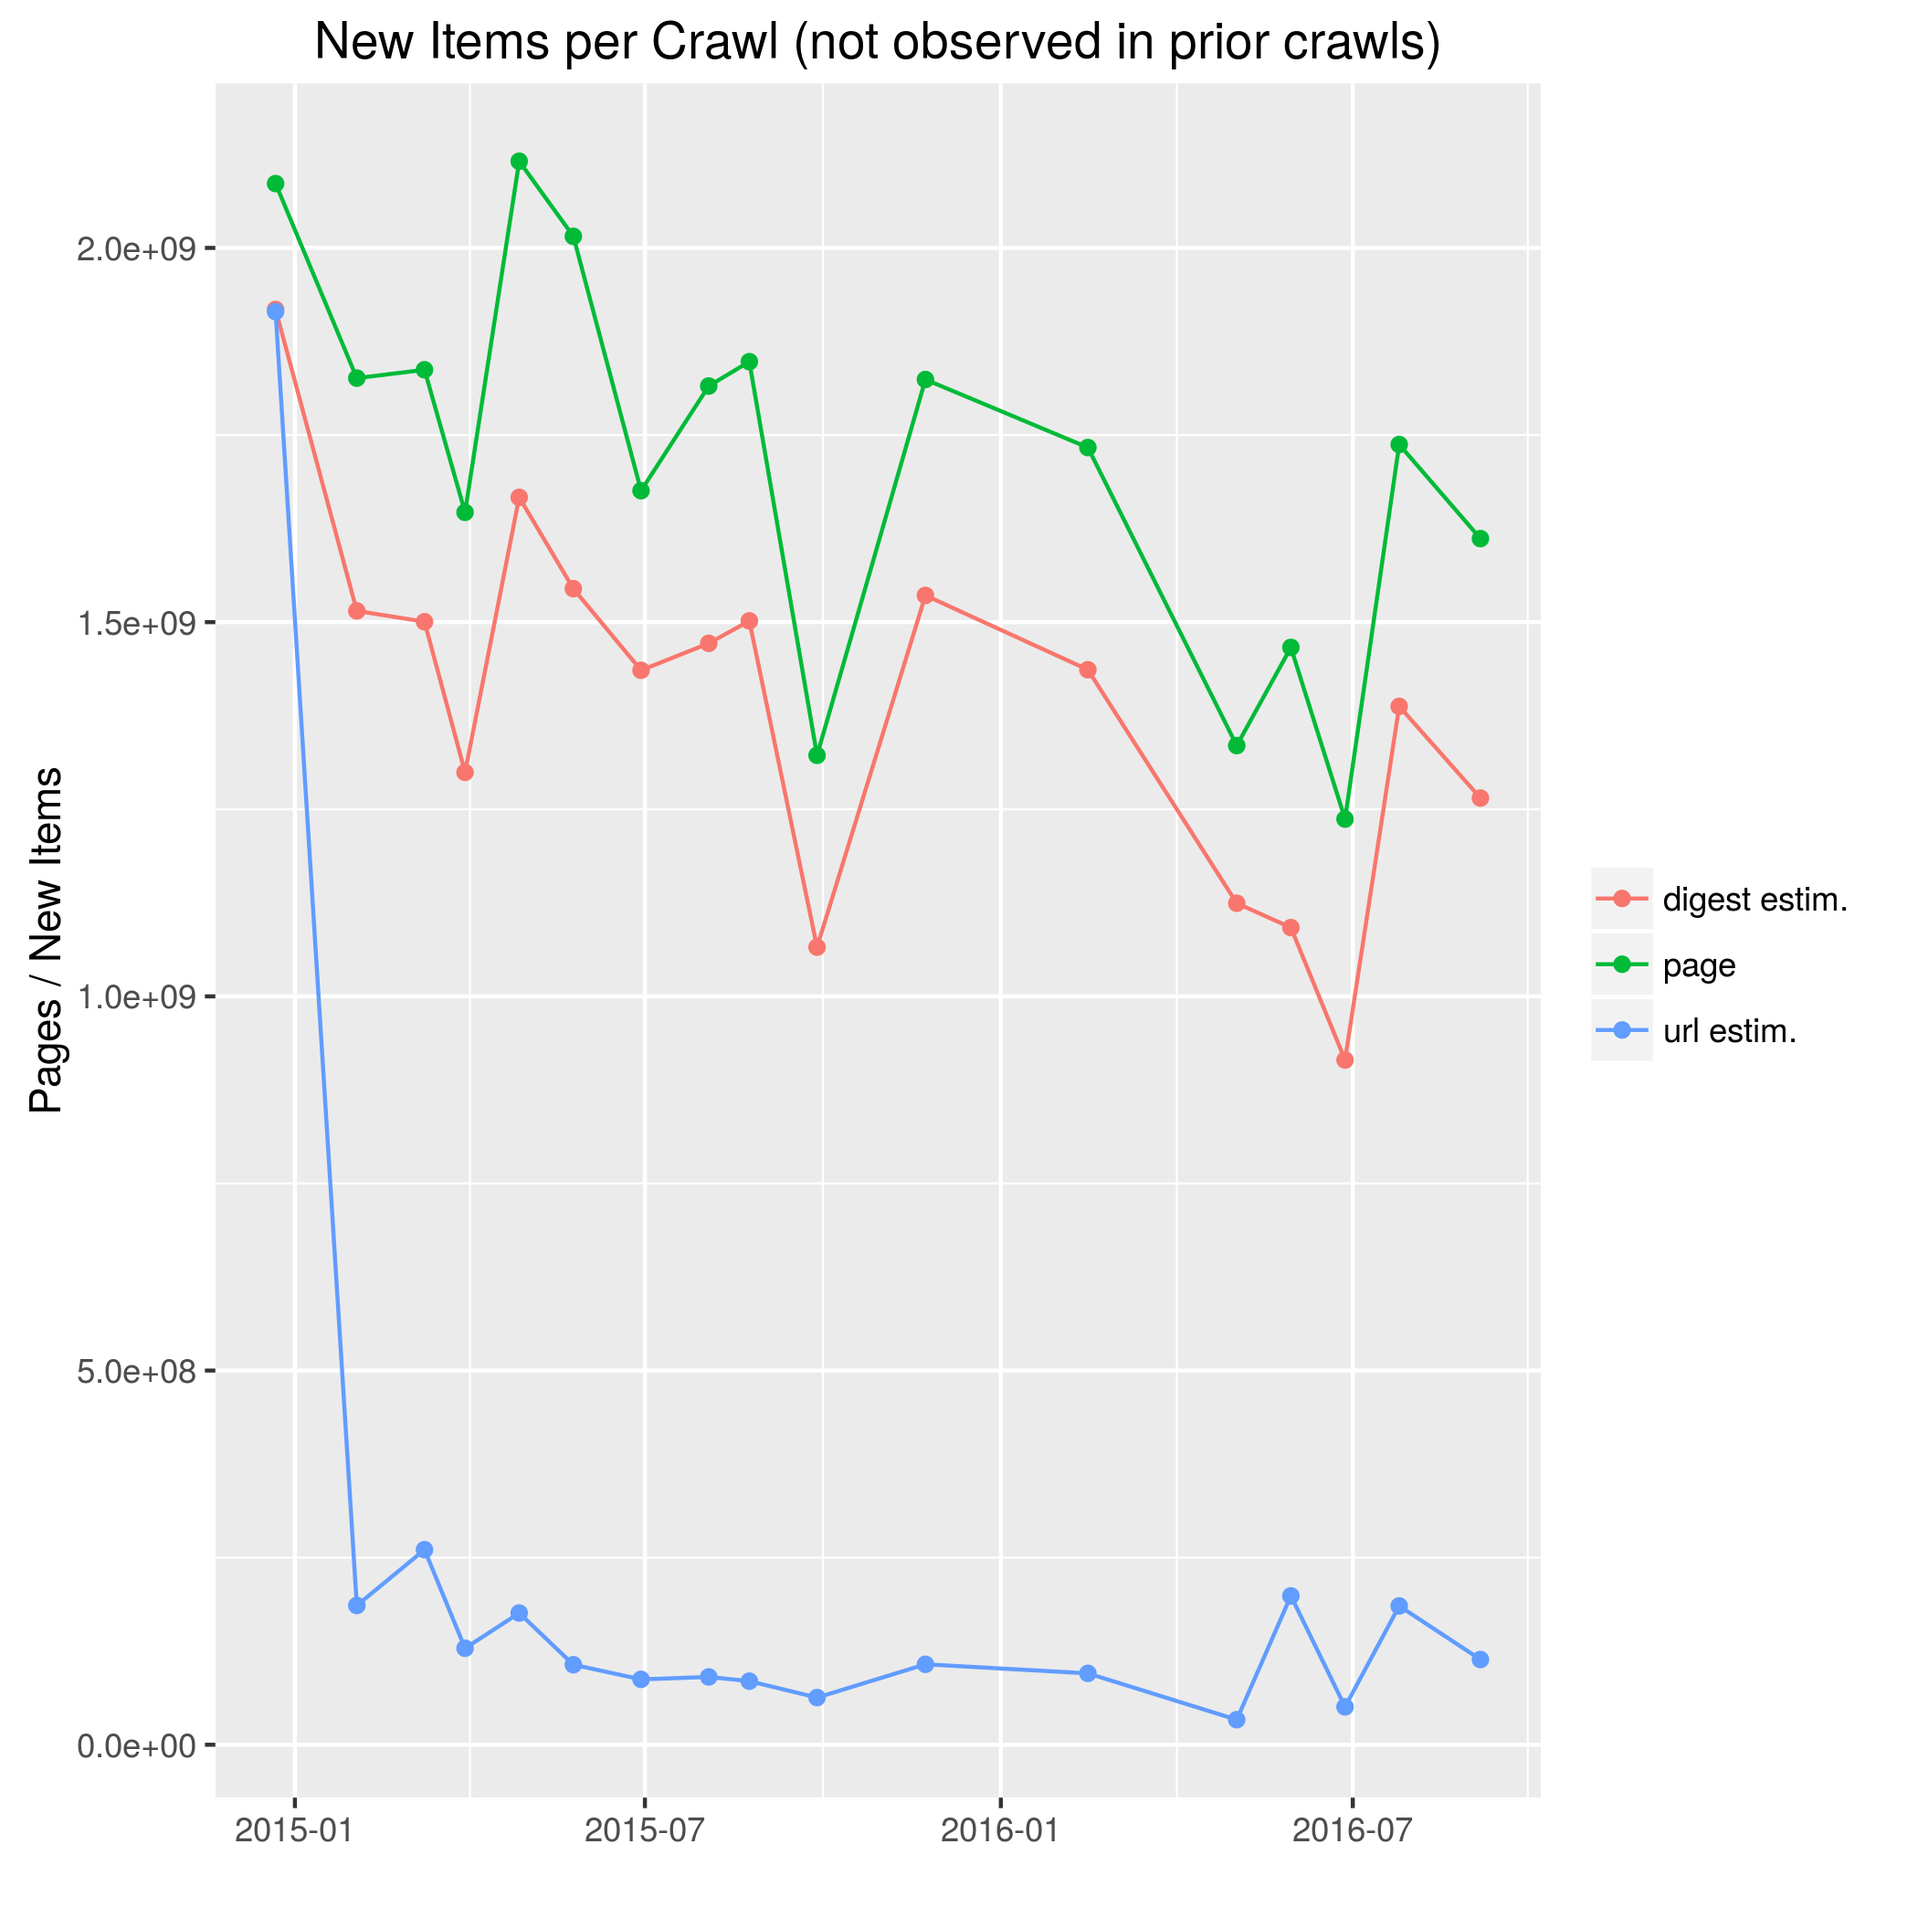
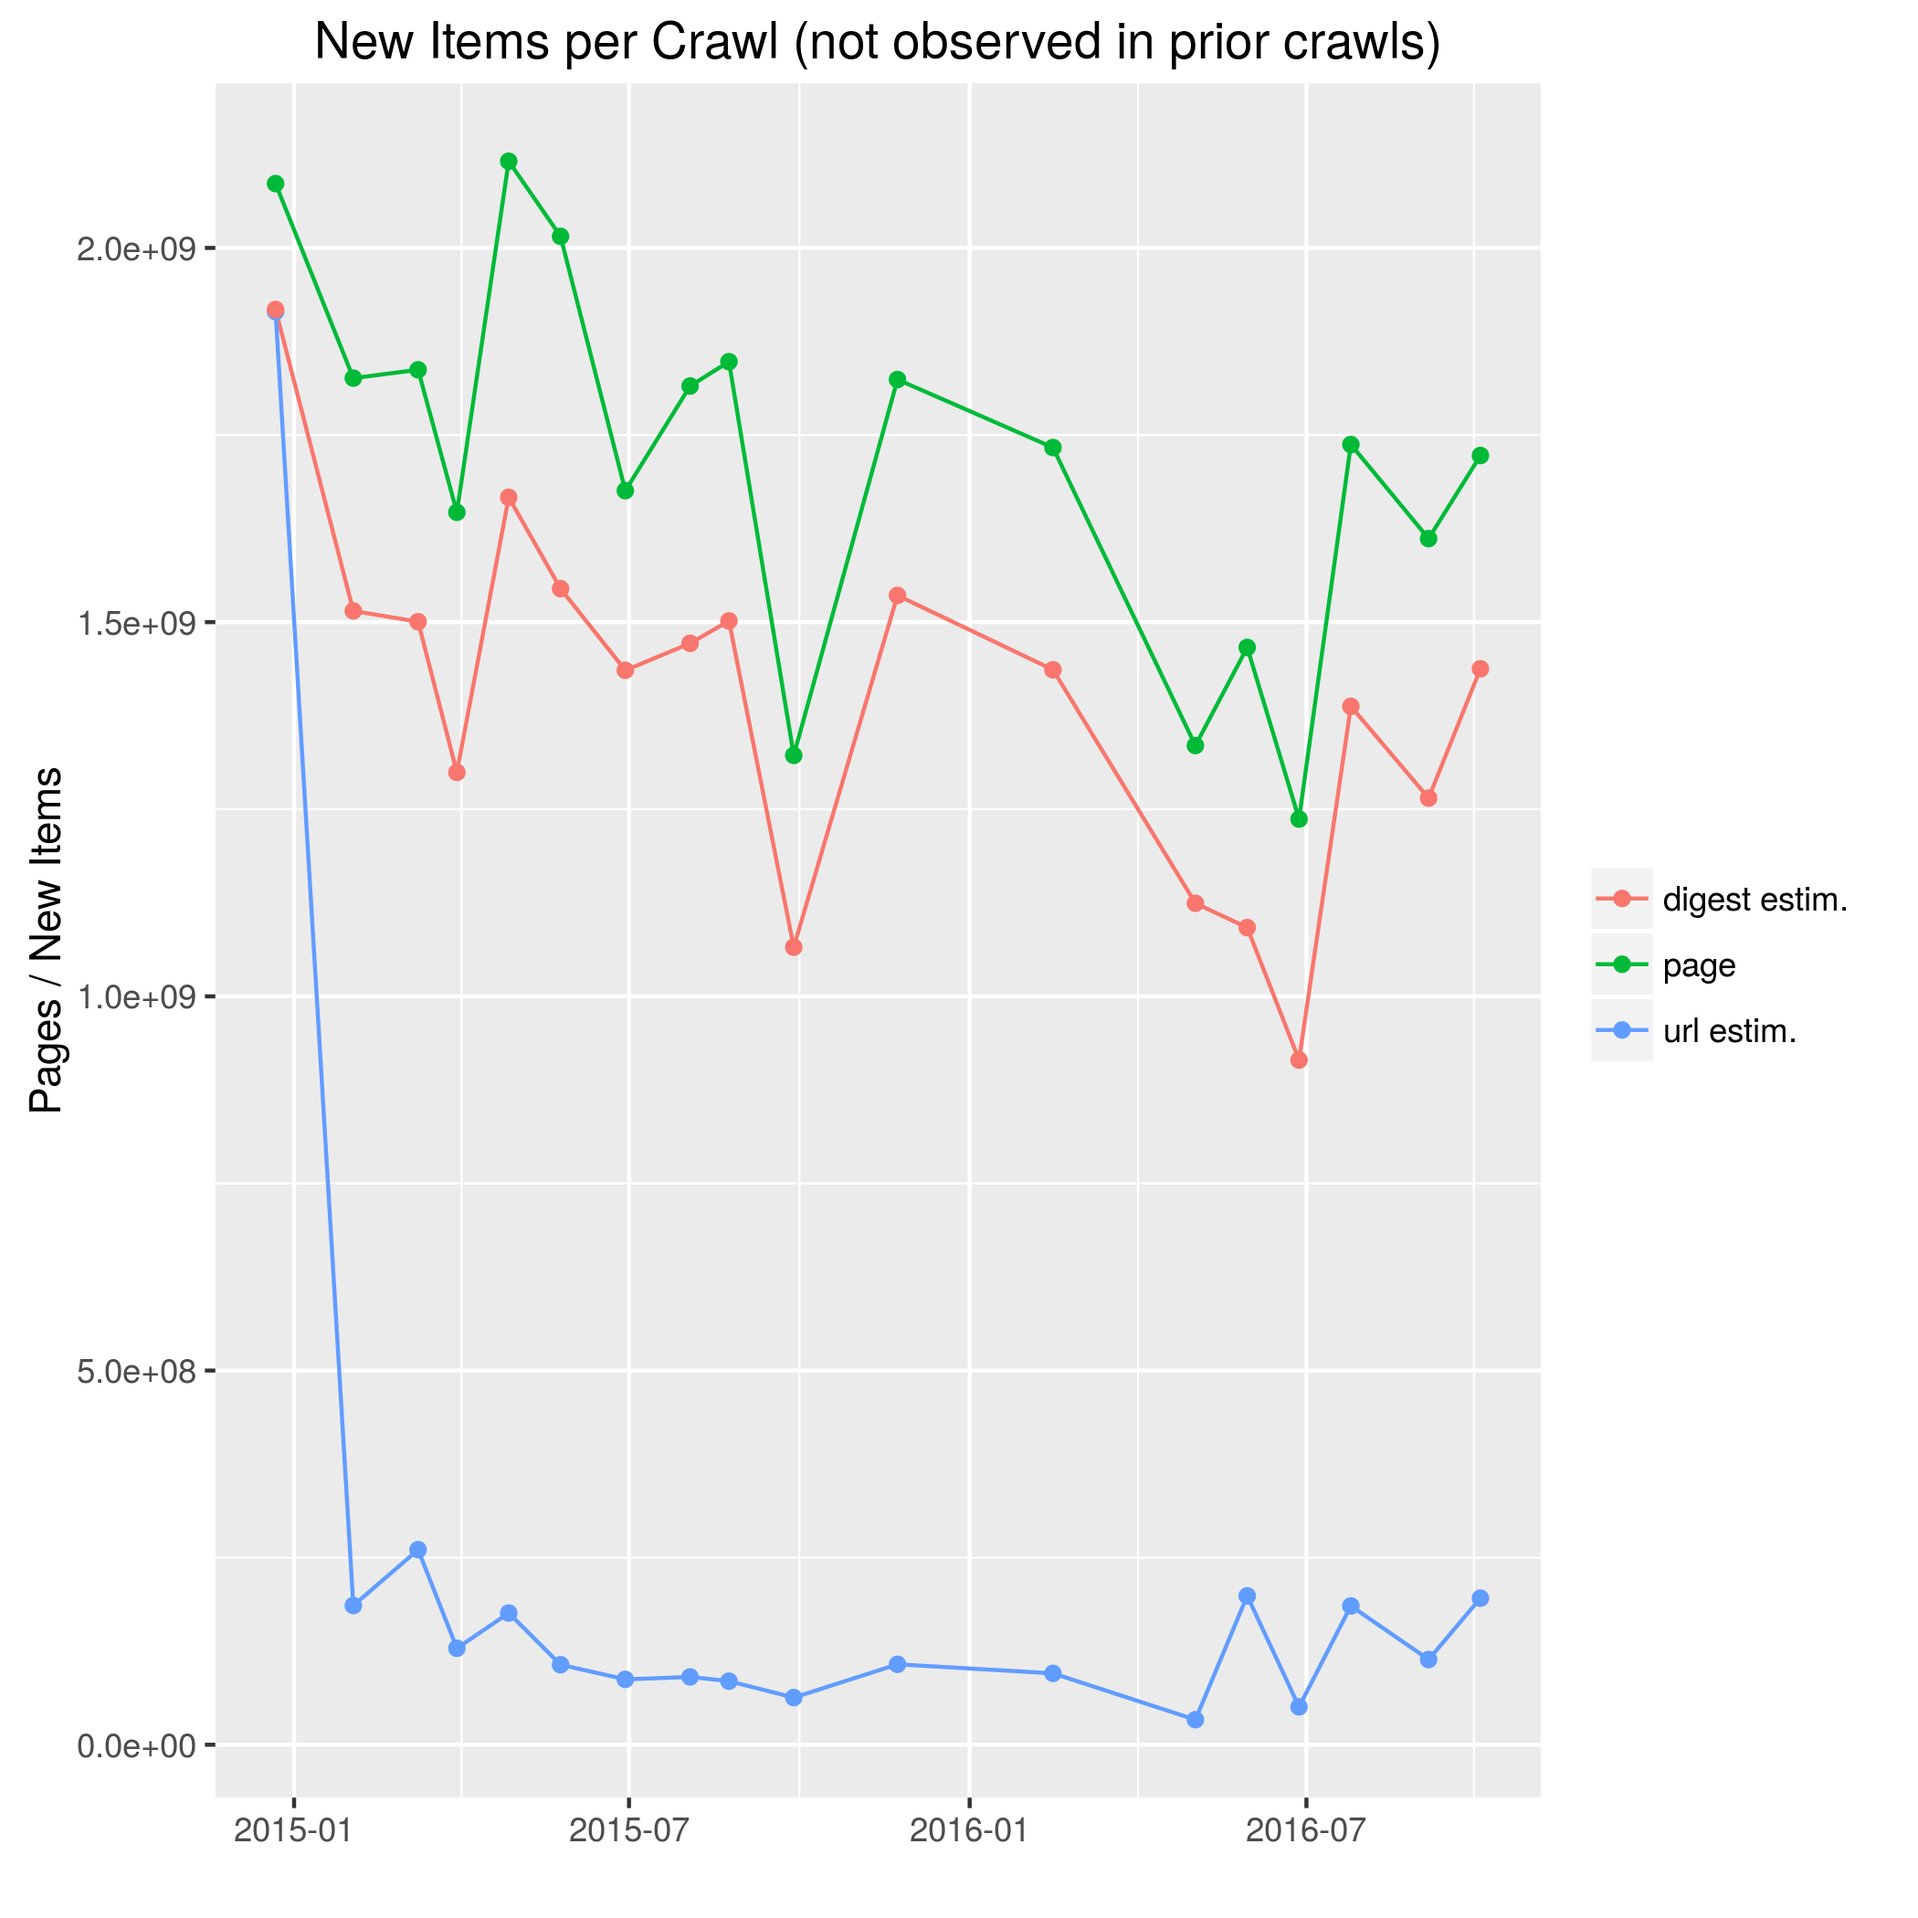
add September 2016 crawl plots, fix enum ordinals for old crawls

diff --git a/crawlstats.py b/crawlstats.py
@@ -35,14 +35,14 @@ class MonthlyCrawl:
     """Enumeration of monthly crawl archives"""
 
     by_name = {
-               'CC-MAIN-2013-20': 90,
-               'CC-MAIN-2013-48': 91,
-               'CC-MAIN-2014-10': 92,
-               'CC-MAIN-2014-15': 93,
-               'CC-MAIN-2014-23': 94,
-               'CC-MAIN-2014-35': 95,
-               'CC-MAIN-2014-41': 96,
-               'CC-MAIN-2014-42': 97,
+               'CC-MAIN-2013-20': 91,
+               'CC-MAIN-2013-48': 92,
+               'CC-MAIN-2014-10': 93,
+               'CC-MAIN-2014-15': 94,
+               'CC-MAIN-2014-23': 95,
+               'CC-MAIN-2014-35': 96,
+               'CC-MAIN-2014-41': 97,
+               'CC-MAIN-2014-42': 98,
                'CC-MAIN-2014-49': 99,
                'CC-MAIN-2014-52': 0,
                'CC-MAIN-2015-06': 1,
@@ -61,6 +61,7 @@ class MonthlyCrawl:
                'CC-MAIN-2016-26': 14,
                'CC-MAIN-2016-30': 15,
                'CC-MAIN-2016-36': 16,
+               'CC-MAIN-2016-40': 17,
                }
 
     by_id = dict(map(reversed, by_name.items()))
